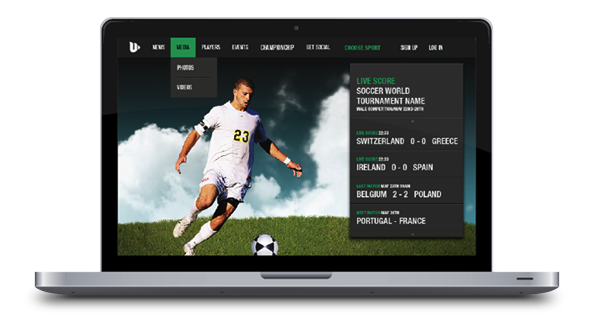
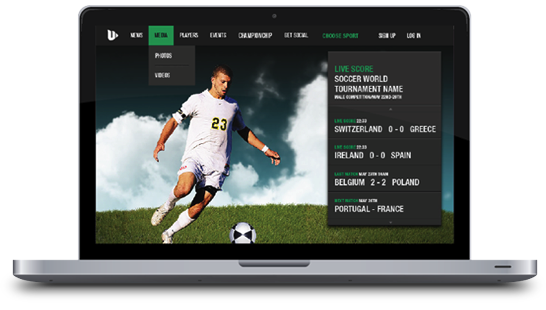
css second sign fixed

Changed region(s): [[0.0, 0.0, 0.9963, 0.9581]]

diff --git a/app/assets/stylesheets/application.css.sass b/app/assets/stylesheets/application.css.sass
@@ -1,14 +1,13 @@
 /*
  *= require foundation_and_overrides
  *= require roboto
- *= require oswald
- *= require helveticaneue
  *= require_self
  */
 
 
 $row-width: 57.5em !default
 $header-font-family: 'PT Sans Narrow', sans-serif
+$body-font-family: "Roboto", "Helvetica Neue", "Helvetica", Helvetica, Arial, sans-serif
 
 @import "compass"
 @import "foundation"
@@ -19,9 +18,11 @@ $header-font-family: 'PT Sans Narrow', sans-serif
   font-family: 'PT Sans Narrow', sans-serif
   letter-spacing: 1px
 
+@mixin border($border: 0, $radius: 0)
+  border: $border
+  border-radius: $radius
 
 html, body
-  font-family: "Roboto", "Helvetica", Helvetica, Arial, sans-serif
   padding-top: 4px
   background-color: $GreenB
 
@@ -34,26 +35,14 @@ html, body
   background-repeat: no-repeat
   background-position: center top
   background-attachment:fixed
+
   padding-top: 100px
   padding-bottom: 150px
 
-  .in-submit
-    .check-icon
-      @include background(image-url("check.png"))
-      background-repeat: no-repeat
-      background-position: center center
-      height: 51px
-      width: 100%
-      margin: 1.2em 0 0.5em 0
-    div
-      text-align: center
-      color: #808080
-
   .uplay-logo
     @include background(image-url("logotipo.png"))
-    background-repeat: no-repeat
-    background-attachment:fixed
     height: 77px
+    background-repeat: no-repeat
 
   .slogan
     header
@@ -62,12 +51,10 @@ html, body
       h1
         font-size: 52px
         color: $GreenA
-        //font-style: normal
         font-weight: bolder
-        // line-height: 50px
         padding-top: 0.5em
       h5
-        font-weight: 400
+        font-weight: normal
 
     .laptop
       @include background(image-url("portatil.png"))
@@ -75,30 +62,40 @@ html, body
       background-position: right center
       height: 347px
 
-  input[type="email"]
-    -moz-box-sizing: border-box
-    -webkit-box-sizing: border-box
-    box-sizing: border-box
-    line-height: 2.3em
-    height: 2.7em
-    padding-left: 1em
-    font-size: small
-    border-radius: 3px
-    border: 0
-    @include single-box-shadow(rgba($LightGray, 0.7), 0px, 3px, 2px, -1px)
+  .main-submit
+    margin-top: 1.2em
+    height: 100px
 
-  input[type="submit"]
-    font-weight: bold
-    width: 100%
-    @include title-font
-    font-size: x-large
-    color: white
-    @include background(linear-gradient(top, $LightGreen, $DarkGreen))
-    border: 0
-    border-radius: 2px
-    @include single-text-shadow(rgba($LightGray, 0.6), 0px, 2px, 1px, 0px)
-    -webkit-box-shadow: inset 0px -1px 1px 1px rgba($Black, 0.2)
-    box-shadow: inset 0px -1px 1px 1px rgba($Black, 0.2)
+    .success-message
+      .check-icon
+        @include background(image-url("check.png"))
+        background-repeat: no-repeat
+        background-position: center center
+        height: 51px
+        width: 100%
+        margin: 0 0 0.5em 0
+      div
+        text-align: center
+        color: #808080
+
+    input[type="email"]
+      @include single-box-shadow(rgba($LightGray, 0.7), 0px, 3px, 2px, -1px)
+      @include border(0, 3px)
+      -moz-box-sizing: border-box
+      -webkit-box-sizing: border-box
+      box-sizing: border-box
+      height: 2.7em
+      padding-left: 1em
+
+    input[type="submit"]
+      @include border(0, 2px)
+      @include title-font
+      font-size: x-large
+      font-weight: bold
+      color: white
+      width: 100%
+      @include background(linear-gradient(top, $LightGreen, $DarkGreen))
+      @include box-shadow(rgba($Black, 0.2) 0px -1px 1px 1px inset)
 
 #athletes
   background-color: white
@@ -121,7 +118,7 @@ html, body
     p
       margin-bottom: 0
       font-size: small
-      line-height: 1em
+      line-height: 1.5em
     h3
       @include title-font
       padding-top: 1em
@@ -132,57 +129,64 @@ html, body
   background-color: $GreenA
   color: white
   padding-top: 5em
-  padding-bottom: 5em
-  > section
-    text-align: center
-  > section:nth-child(1) div
+  padding-bottom: 4em
+  line-height: 2em
+
+  .row > section
+    padding: 0 15px 0 15px
+    line-height: 50px
+    height: 50px
+
+  .row > section:nth-child(1)
+    float: left
+    width: 50%
+    margin: 0
     @include title-font
     font-size: x-large
     font-weight: bolder
-    line-height: 2em
+    vertical-align: middle
 
-  .second-submit
-    .check-icon
-      @include background(image-url("checkW.png"))
-      background-repeat: no-repeat
-      background-position: center center
-      height: 51px
-      width: 51px
-      float: right
-    div
+  .row > section:nth-child(2)
+    float: right
+    width: 50%
+    display: table
+    .success-message
       color: white
+      font-weight: normal
+      font-size: normal
+      text-align: right
+    .form-wrap
+      display: table-cell
+      vertical-align: middle
+      form
+        margin: 0
+        input
+          margin: 0
+        input[type="email"]
+          width: 77%
+          float: left
+          font-size: small
+          height: 2.7em
+          padding-left: 1em
+          @include border(0, 3px)
+        input[type="submit"]
+          width: 19%
+          border: 0
+          float: right
+          @include title-font
+          font-size: large
+          padding: 6px 3px 6px 3px
+          color: $BText
+          @include background(linear-gradient(top, $BLight, $BDark))
+          @include border(0, 2px)
+          @include single-text-shadow(rgba($LightGray, 0.6), 0px, 2px, 1px, 0px)
+          @include box-shadow(rgba($LightGray, 0.5) 0px -1px 1px 1px inset)
 
-  form
-    input
-      -moz-box-sizing: content-box
-      -webkit-box-sizing: content-box
-      box-sizing: content-box
-    input[type="email"]
-      text-align: center
-      font-size: small
-      border-radius: 3px
-      margin-top: 1px
-
-    input[type="submit"]
-      margin-bottom: 15px
-      margin-left: 1.5em
-      width: 70%
-      @include title-font
-      font-size: large
-      // line-height: 39px
-      padding: 8px 3px
-      color: $BText
-      @include background(linear-gradient(top, $BLight, $BDark))
-      border: 0
-      border-radius: 2px
-      @include single-text-shadow(rgba($LightGray, 0.6), 0px, 2px, 1px, 0px)
-      -webkit-box-shadow: inset 0px -1px 1px 1px rgba($LightGray, 0.5)
-      box-shadow: inset 0px -1px 1px 1px rgba($LightGray, 0.5)
 
 body > footer
   > section:nth-child(1) div
     line-height: 3em
-    vertical-align: center
+    vertical-align: middle
   img
     float: right
     margin-left: 2em

diff --git a/app/assets/javascripts/application.js b/app/assets/javascripts/application.js
@@ -1,0 +1,35 @@
+
+//= require jquery
+//= require jquery_ujs
+//= require foundation
+//= require parallax
+//= require mixpanel
+//= require_self
+
+$(document).foundation();
+
+$(document).ready(function() {
+
+	function mixpanel_register(email) {
+		console.log("Mixpanel: user registration");
+		mixpanel.identify(email);
+	    mixpanel.people.set({
+	    	email: email
+	    });
+	};
+
+	$('.main-submit input[type="submit"]').click(function() {
+		//mixpanel_register($('.main-submit').find('input[type="email"]').val());
+		$('.main-submit').find('form').hide().animate(200);
+		$('.main-submit').find('.success-message').show().animate(200);
+		return false;
+	});
+
+	$('.second-submit input[type="submit"]').click(function() {
+		//mixpanel_register($('.second-submit').find('input[type="email"]').val());
+		$('.second-submit').find('form').hide().animate(200);
+		$('.second-submit').find('.success-message').show().animate(200);
+		return false
+	});
+
+});

diff --git a/app/assets/javascripts/mixpanel.js b/app/assets/javascripts/mixpanel.js
@@ -1,0 +1,11 @@
+(function(c,a){window.mixpanel=a;var b,d,h,e;b=c.createElement("script");
+b.type="text/javascript";b.async=!0;b.src=("https:"===c.location.protocol?"https:":"http:")+
+'//cdn.mxpnl.com/libs/mixpanel-2.2.min.js';d=c.getElementsByTagName("script")[0];
+d.parentNode.insertBefore(b,d);a._i=[];a.init=function(b,c,f){function d(a,b){
+var c=b.split(".");2==c.length&&(a=a[c[0]],b=c[1]);a[b]=function(){a.push([b].concat(
+Array.prototype.slice.call(arguments,0)))}}var g=a;"undefined"!==typeof f?g=a[f]=[]:
+f="mixpanel";g.people=g.people||[];h=['disable','track','track_pageview','track_links',
+'track_forms','register','register_once','unregister','identify','alias','name_tag',
+'set_config','people.set','people.increment','people.track_charge','people.append'];
+for(e=0;e<h.length;e++)d(g,h[e]);a._i.push([b,c,f])};a.__SV=1.2;})(document,window.mixpanel||[]);
+mixpanel.init("a629f5a7e61c61941201e842711dba7f");

diff --git a/config/routes.rb b/config/routes.rb
@@ -2,7 +2,7 @@ Uplaypro::Application.routes.draw do
 
   scope 'l', as: "landing" do
     match '/' => 'landing#index', via: :get
-    match '/register' => 'landing#register', via: :post
+    # match '/register' => 'landing#register', via: :post
   end
 
   root to: 'landing#index'

diff --git a/app/controllers/landing_controller.rb b/app/controllers/landing_controller.rb
@@ -1,11 +1,4 @@
 class LandingController < ::ApplicationController
   def index
-    @mixpanel.track 'Front page'
-  end
-
-  def register
-    @mixpanel.track 'New registration'
-    puts "HERERERERERER REGISTER #{params.inspect}"
-    redirect_to action: 'index'
   end
 end
